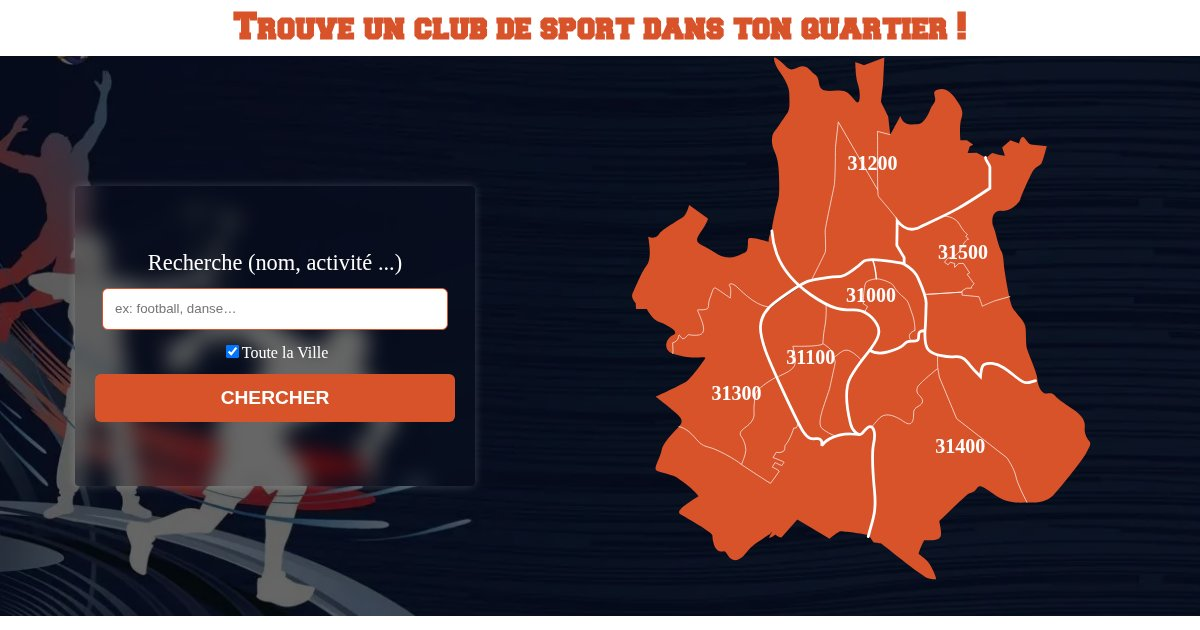
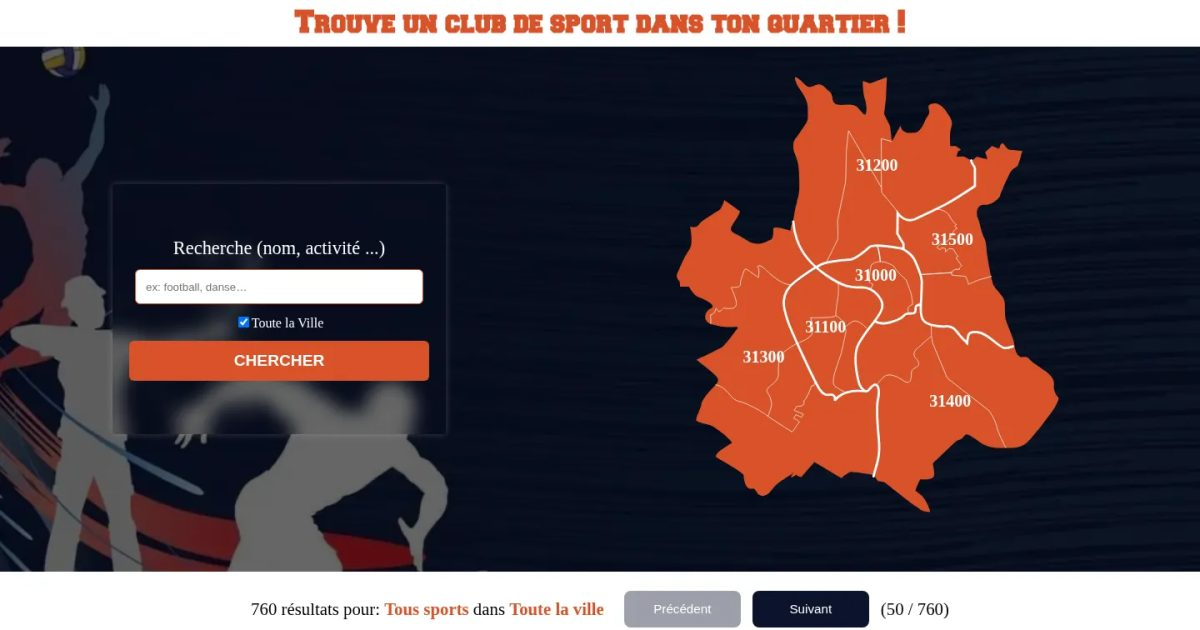
ajout de valeurs aux avis, ajout d'un boolean reviewable sur les projets

diff --git a/assets/pages/Review.tsx b/assets/pages/Review.tsx
@@ -5,6 +5,7 @@ type ReviewProject = { id: number; name: string };
 
 type ReviewForm = {
     author: string;
+    authorRole: string;
     text: string;
     projects: number[];
     consent: boolean;
@@ -16,6 +17,7 @@ type ReviewForm = {
 export default function Review({ projects }: { projects: ReviewProject[] }) {
     const form = useForm<ReviewForm>({
         author: "",
+        authorRole: "",
         text: "",
         // un seul projet : coché d'office
         projects: projects.length === 1 ? [projects[0].id] : [],
@@ -96,12 +98,51 @@ export default function Review({ projects }: { projects: ReviewProject[] }) {
                                 />
                                 <label htmlFor="author">Votre nom</label>
                                 <div className="form-help" id="author-help">
-                                    Affiché avec l’avis : prénom, nom ou
-                                    entreprise, comme vous préférez.
+                                    Affiché avec l’avis : prénom seul ou nom
+                                    complet, comme vous préférez.
                                 </div>
                                 {form.errors.author && (
                                     <div className="form-error" id="author-error">
                                         {form.errors.author}
+                                    </div>
+                                )}
+                            </div>
+
+                            <div className="input-wrapper">
+                                <input
+                                    type="text"
+                                    value={form.data.authorRole}
+                                    id="authorRole"
+                                    name="authorRole"
+                                    autoComplete="organization-title"
+                                    placeholder=""
+                                    maxLength={100}
+                                    onChange={(e) =>
+                                        form.setData(
+                                            "authorRole",
+                                            e.target.value,
+                                        )
+                                    }
+                                    aria-invalid={!!form.errors.authorRole}
+                                    aria-describedby={
+                                        form.errors.authorRole
+                                            ? "authorRole-error"
+                                            : "authorRole-help"
+                                    }
+                                />
+                                <label htmlFor="authorRole">
+                                    Poste ou entreprise (facultatif)
+                                </label>
+                                <div className="form-help" id="authorRole-help">
+                                    Affiché sous votre nom, par exemple
+                                    « Gérante, La cuisine de Maha ».
+                                </div>
+                                {form.errors.authorRole && (
+                                    <div
+                                        className="form-error"
+                                        id="authorRole-error"
+                                    >
+                                        {form.errors.authorRole}
                                     </div>
                                 )}
                             </div>

diff --git a/tests/Service/ReviewSubmissionTest.php b/tests/Service/ReviewSubmissionTest.php
@@ -44,16 +44,18 @@ final class ReviewSubmissionTest extends KernelTestCase
             $sent = $email;
         });
 
-        $review = $this->submission($em, $mailer)->submit($this->request([3, 7, 3]));
+        $review = $this->submission($em, $mailer)->submit($this->request([3, 7, 3], '  Gérante, La cuisine de Maha '));
 
         self::assertSame($saved, $review);
         self::assertSame('Marie D.', $review->getAuthor());
+        self::assertSame('Gérante, La cuisine de Maha', $review->getAuthorRole());
         self::assertFalse($review->isValidated());
         self::assertNotNull($review->getConsentedAt());
         self::assertSame([$this->maha, $this->ava], $review->getProjects()->toArray());
         self::assertSame($review, $this->maha->getReview());
 
         self::assertSame('Nouvel avis à valider – Marie D. – Maha, Ava', $sent->getSubject());
+        self::assertStringStartsWith('Marie D., Gérante, La cuisine de Maha (Maha, Ava) :', $sent->getTextBody());
         self::assertStringContainsString('Site livré dans les temps', $sent->getTextBody());
         self::assertStringContainsString('http://localhost/admin/review/12/edit', $sent->getTextBody());
     }
@@ -88,6 +90,8 @@ final class ReviewSubmissionTest extends KernelTestCase
         $review = $this->submission($em, $mailer)->submit($this->request([3]));
 
         self::assertSame(12, $review->getId());
+        // poste non renseigné : rien à afficher sous le nom
+        self::assertNull($review->getAuthorRole());
     }
 
     private function submission(EntityManagerInterface $em, MailerInterface $mailer): ReviewSubmission
@@ -111,10 +115,11 @@ final class ReviewSubmissionTest extends KernelTestCase
     /**
      * @param list<int> $projects
      */
-    private function request(array $projects): ReviewRequest
+    private function request(array $projects, string $authorRole = ''): ReviewRequest
     {
         return new ReviewRequest(
             author: 'Marie D.',
+            authorRole: $authorRole,
             text: 'Site livré dans les temps, et je le modifie seule sans difficulté.',
             projects: $projects,
             consent: true,

diff --git a/src/Repository/ProjectRepository.php b/src/Repository/ProjectRepository.php
@@ -24,12 +24,15 @@ class ProjectRepository extends ServiceEntityRepository
      */
     public function findOrderedFor(Audience $audience): array
     {
-        return $this->findBy([], [self::orderField($audience) => "ASC", "id" => "ASC"]);
+        return $this->findBy(
+            [],
+            [self::orderField($audience) => "ASC", "id" => "ASC"],
+        );
     }
 
     /**
-     * Projets encore sans avis (validé ou en attente), ceux proposés dans le
-     * formulaire d'avis ; limités à $ids si fournis.
+     * Projets ouverts aux avis et encore sans avis (validé ou en attente), ceux
+     * proposés dans le formulaire d'avis ; limités à $ids si fournis.
      *
      * @param list<int>|null $ids
      *
@@ -37,12 +40,15 @@ class ProjectRepository extends ServiceEntityRepository
      */
     public function findWithoutReview(?array $ids = null): array
     {
-        $criteria = ["review" => null];
+        $criteria = ["review" => null, "reviewable" => true];
         if (null !== $ids) {
             $criteria["id"] = $ids;
         }
 
-        return $this->findBy($criteria, ["teamPosition" => "ASC", "id" => "ASC"]);
+        return $this->findBy($criteria, [
+            "teamPosition" => "ASC",
+            "id" => "ASC",
+        ]);
     }
 
     /**
@@ -54,9 +60,10 @@ class ProjectRepository extends ServiceEntityRepository
     public function findAdjacent(Project $project, Audience $audience): array
     {
         $field = self::orderField($audience);
-        $position = Audience::Team === $audience
-            ? $project->getTeamPosition()
-            : $project->getPosition();
+        $position =
+            Audience::Team === $audience
+                ? $project->getTeamPosition()
+                : $project->getPosition();
 
         // ordre de la page, puis id pour départager les égalités
         $previous =

diff --git a/migrations/Version20261009224924.php b/migrations/Version20261009224924.php
@@ -1,0 +1,33 @@
+<?php
+
+declare(strict_types=1);
+
+namespace DoctrineMigrations;
+
+use Doctrine\DBAL\Schema\Schema;
+use Doctrine\Migrations\AbstractMigration;
+
+/**
+ * Auto-generated Migration: Please modify to your needs!
+ */
+final class Version20261009224924 extends AbstractMigration
+{
+    public function getDescription(): string
+    {
+        return 'Avis : poste / entreprise de l\'auteur ; projets ouverts aux avis';
+    }
+
+    public function up(Schema $schema): void
+    {
+        // this up() migration is auto-generated, please modify it to your needs
+        $this->addSql('ALTER TABLE project ADD reviewable TINYINT DEFAULT 1 NOT NULL');
+        $this->addSql('ALTER TABLE review ADD author_role VARCHAR(100) DEFAULT NULL');
+    }
+
+    public function down(Schema $schema): void
+    {
+        // this down() migration is auto-generated, please modify it to your needs
+        $this->addSql('ALTER TABLE project DROP reviewable');
+        $this->addSql('ALTER TABLE review DROP author_role');
+    }
+}

diff --git a/src/Service/ReviewSubmission.php b/src/Service/ReviewSubmission.php
@@ -52,6 +52,7 @@ class ReviewSubmission
 
         $review = new Review()
             ->setAuthor($data->author)
+            ->setAuthorRole("" !== trim($data->authorRole) ? trim($data->authorRole) : null)
             ->setText($data->text)
             ->setConsentedAt(new \DateTimeImmutable());
         foreach ($projects as $project) {
@@ -77,8 +78,9 @@ class ReviewSubmission
                     ->from("sylpi@sylvainpillet.com")
                     ->subject(sprintf("Nouvel avis à valider – %s – %s", $review->getAuthor(), $projects))
                     ->text(sprintf(
-                        "%s (%s) :\n\n%s\n\nValider : %s",
+                        "%s%s (%s) :\n\n%s\n\nValider : %s",
                         $review->getAuthor(),
+                        $review->getAuthorRole() ? ", ".$review->getAuthorRole() : "",
                         $projects,
                         $review->getText(),
                         $this->urlGenerator->generate(

diff --git a/src/Entity/Project.php b/src/Entity/Project.php
@@ -101,6 +101,10 @@ class Project
     #[ORM\JoinColumn(onDelete: "SET NULL")]
     private ?Review $review = null;
 
+    // proposé dans le formulaire d'avis ; décoché pour les projets persos (Portfolio…)
+    #[ORM\Column(options: ["default" => true])]
+    private bool $reviewable = true;
+
     // texte court des cartes projet, version de l'accueil (page équipe) ;
     // remplacé côté création de site par getMiniDescriptionFor() (PagePresenter)
     #[ORM\Column(type: Types::TEXT, nullable: true)]
@@ -305,6 +309,18 @@ class Project
         $this->review = $review;
         $previous?->removeProject($this);
         $review?->addProject($this);
+
+        return $this;
+    }
+
+    public function isReviewable(): bool
+    {
+        return $this->reviewable;
+    }
+
+    public function setReviewable(bool $reviewable): static
+    {
+        $this->reviewable = $reviewable;
 
         return $this;
     }

diff --git a/src/Controller/Admin/ReviewCrudController.php b/src/Controller/Admin/ReviewCrudController.php
@@ -28,7 +28,7 @@ class ReviewCrudController extends AbstractCrudController
             ->setEntityLabelInPlural('Avis')
             // les plus récents (donc ceux à relire) en haut
             ->setDefaultSort(['createdAt' => 'DESC'])
-            ->setSearchFields(['author', 'text']);
+            ->setSearchFields(['author', 'authorRole', 'text']);
     }
 
     public function configureFilters(Filters $filters): Filters
@@ -40,6 +40,8 @@ class ReviewCrudController extends AbstractCrudController
     {
         yield FormField::addColumn(8);
         yield TextField::new('author', 'Auteur');
+        yield TextField::new('authorRole', 'Poste / entreprise')
+            ->setHelp('Facultatif, affiché sous le nom.');
         yield TextareaField::new('text', 'Avis')
             ->setMaxLength(120);
 

diff --git a/src/Entity/Review.php b/src/Entity/Review.php
@@ -25,6 +25,11 @@ class Review
     #[Assert\Length(max: 100)]
     private ?string $author = null;
 
+    // affiché sous le nom : poste, entreprise ("Gérante, La cuisine de Maha")
+    #[ORM\Column(length: 100, nullable: true)]
+    #[Assert\Length(max: 100)]
+    private ?string $authorRole = null;
+
     #[ORM\Column(type: Types::TEXT)]
     #[Assert\NotBlank]
     private ?string $text = null;
@@ -79,6 +84,18 @@ class Review
     public function setAuthor(string $author): static
     {
         $this->author = $author;
+
+        return $this;
+    }
+
+    public function getAuthorRole(): ?string
+    {
+        return $this->authorRole;
+    }
+
+    public function setAuthorRole(?string $authorRole): static
+    {
+        $this->authorRole = $authorRole;
 
         return $this;
     }

diff --git a/src/Controller/Admin/ProjectCrudController.php b/src/Controller/Admin/ProjectCrudController.php
@@ -120,6 +120,11 @@ class ProjectCrudController extends AbstractCrudController
             "Du plus petit (affiché en premier) au plus grand. Sert aussi pour précédent/suivant.",
         );
         yield IntegerField::new("position", "Ordre (création de site)");
+        yield BooleanField::new("reviewable", "Ouvert aux avis")
+            ->setHelp(
+                "Décoché : jamais proposé dans le formulaire d'avis (projets persos).",
+            )
+            ->hideOnIndex();
         // côté inverse de la relation : by_reference=false pour passer par
         // addExperience()/removeExperience(), qui mettent à jour Experience
         yield AssociationField::new("experiences", "Étapes du parcours")

diff --git a/src/Dto/ReviewRequest.php b/src/Dto/ReviewRequest.php
@@ -21,6 +21,14 @@ final readonly class ReviewRequest
             ),
         ]
         public string $author = "",
+        // facultatif : poste, entreprise
+        #[
+            Assert\Length(
+                max: 100,
+                maxMessage: "Ce champ ne peut pas dépasser {{ limit }} caractères.",
+            ),
+        ]
+        public string $authorRole = "",
         #[Assert\NotBlank(message: "L'avis ne peut pas être vide.")]
         #[
             Assert\Length(
